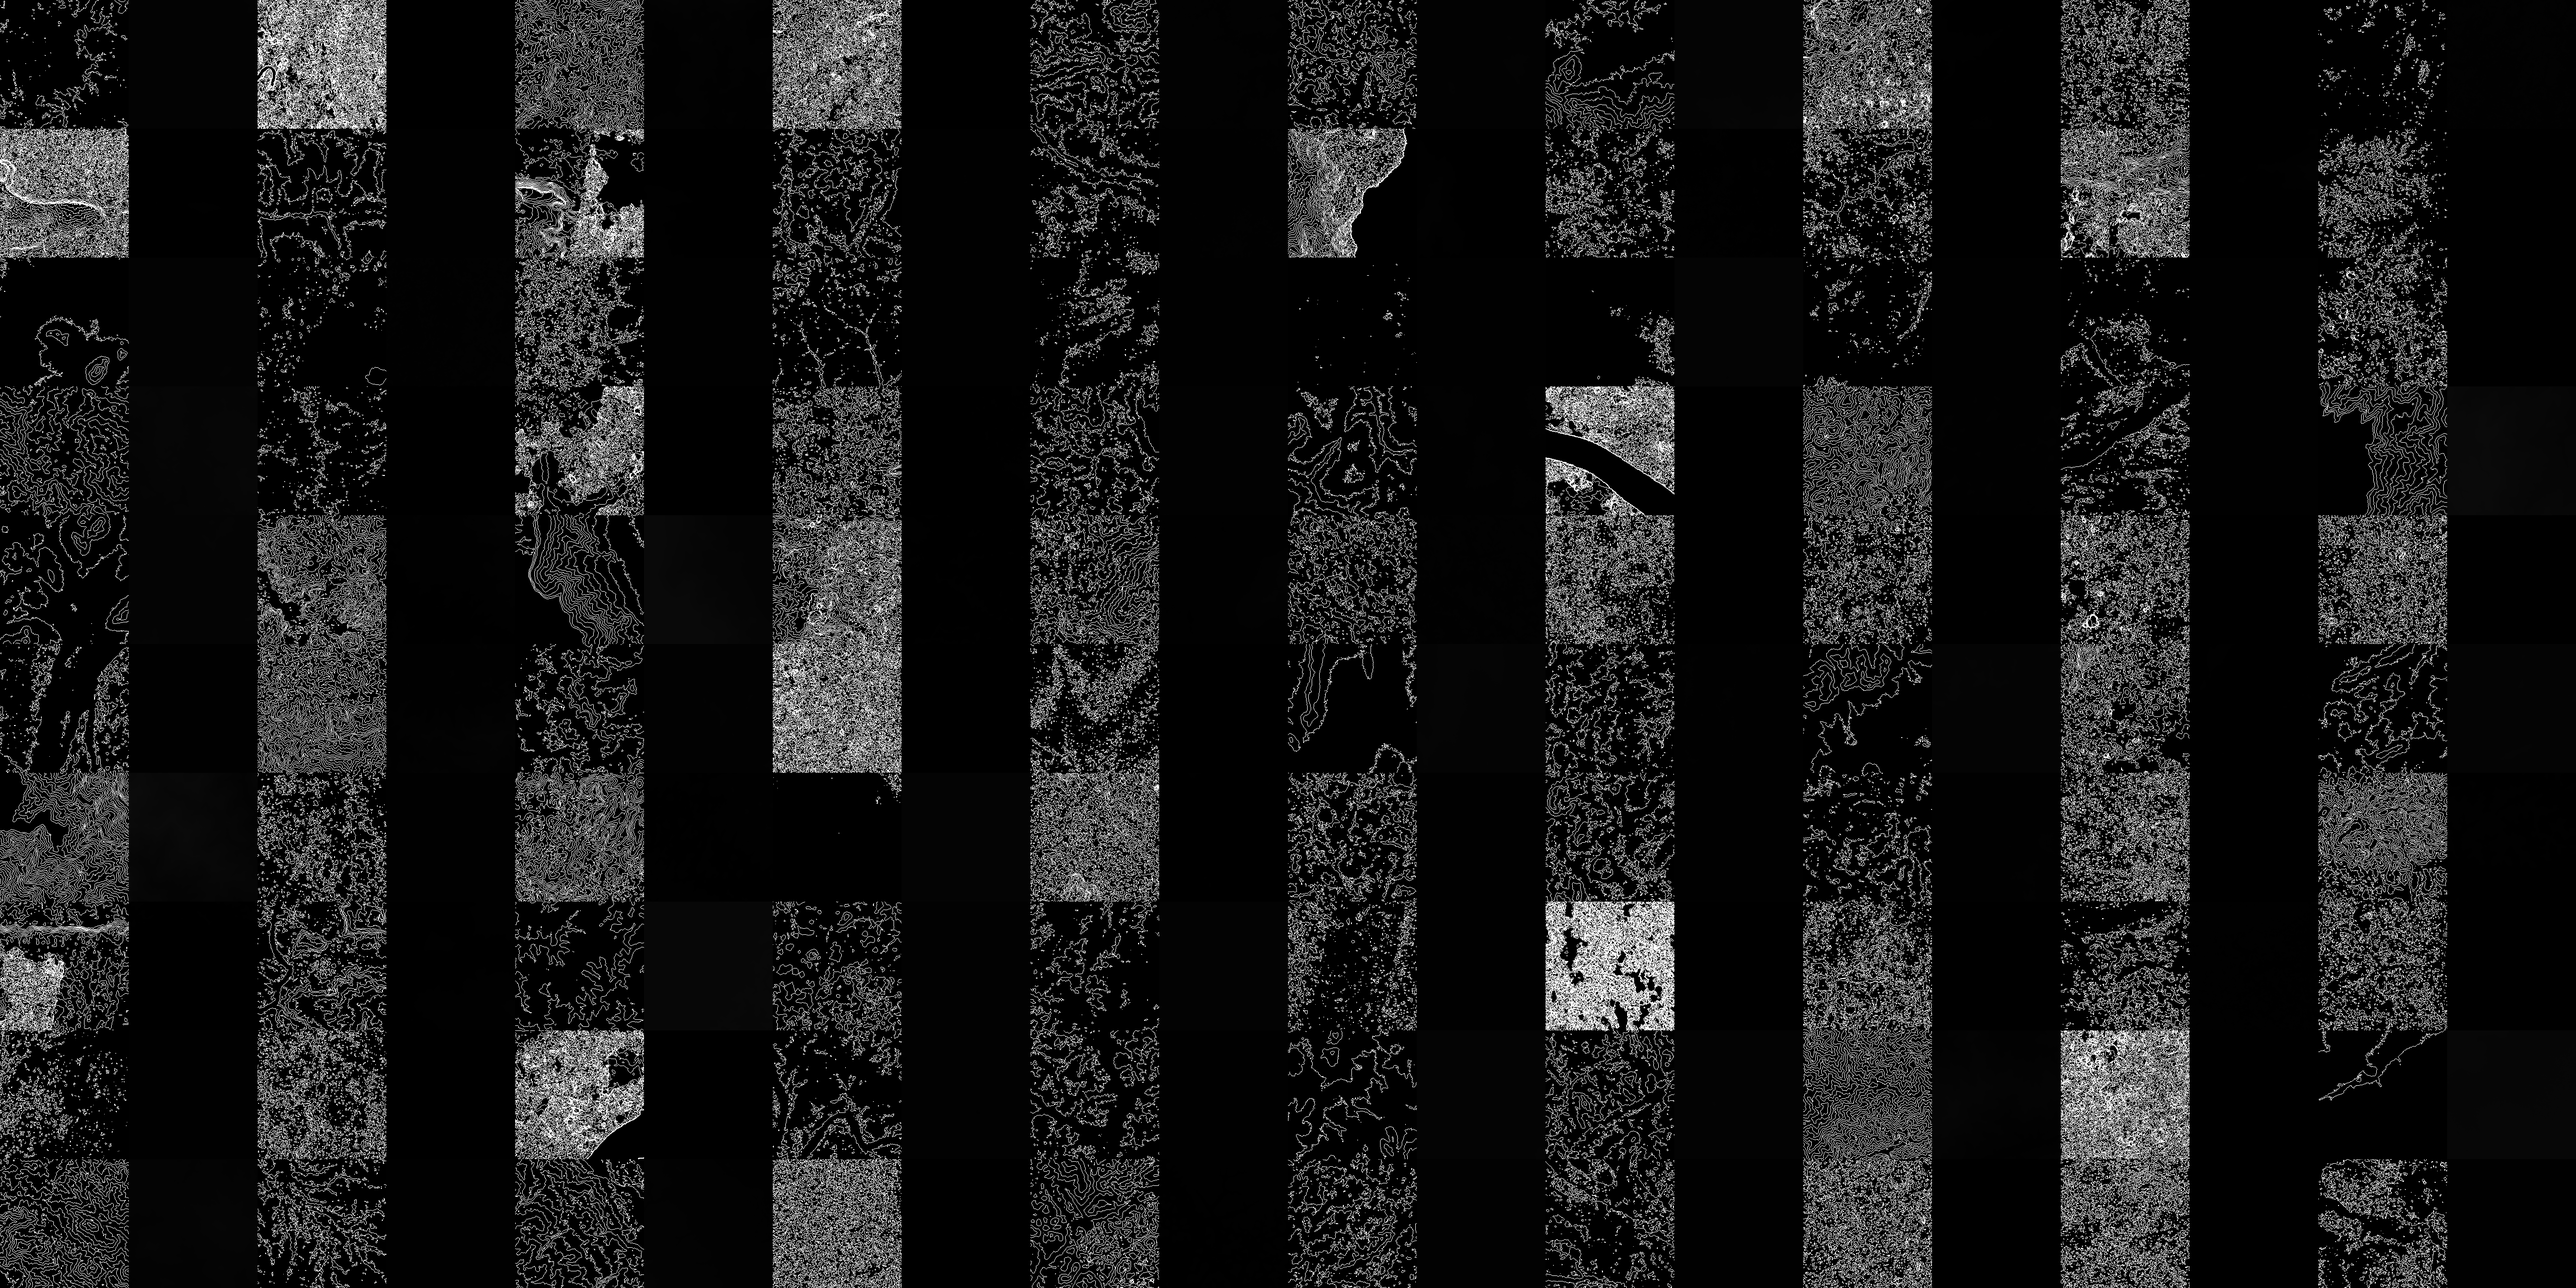
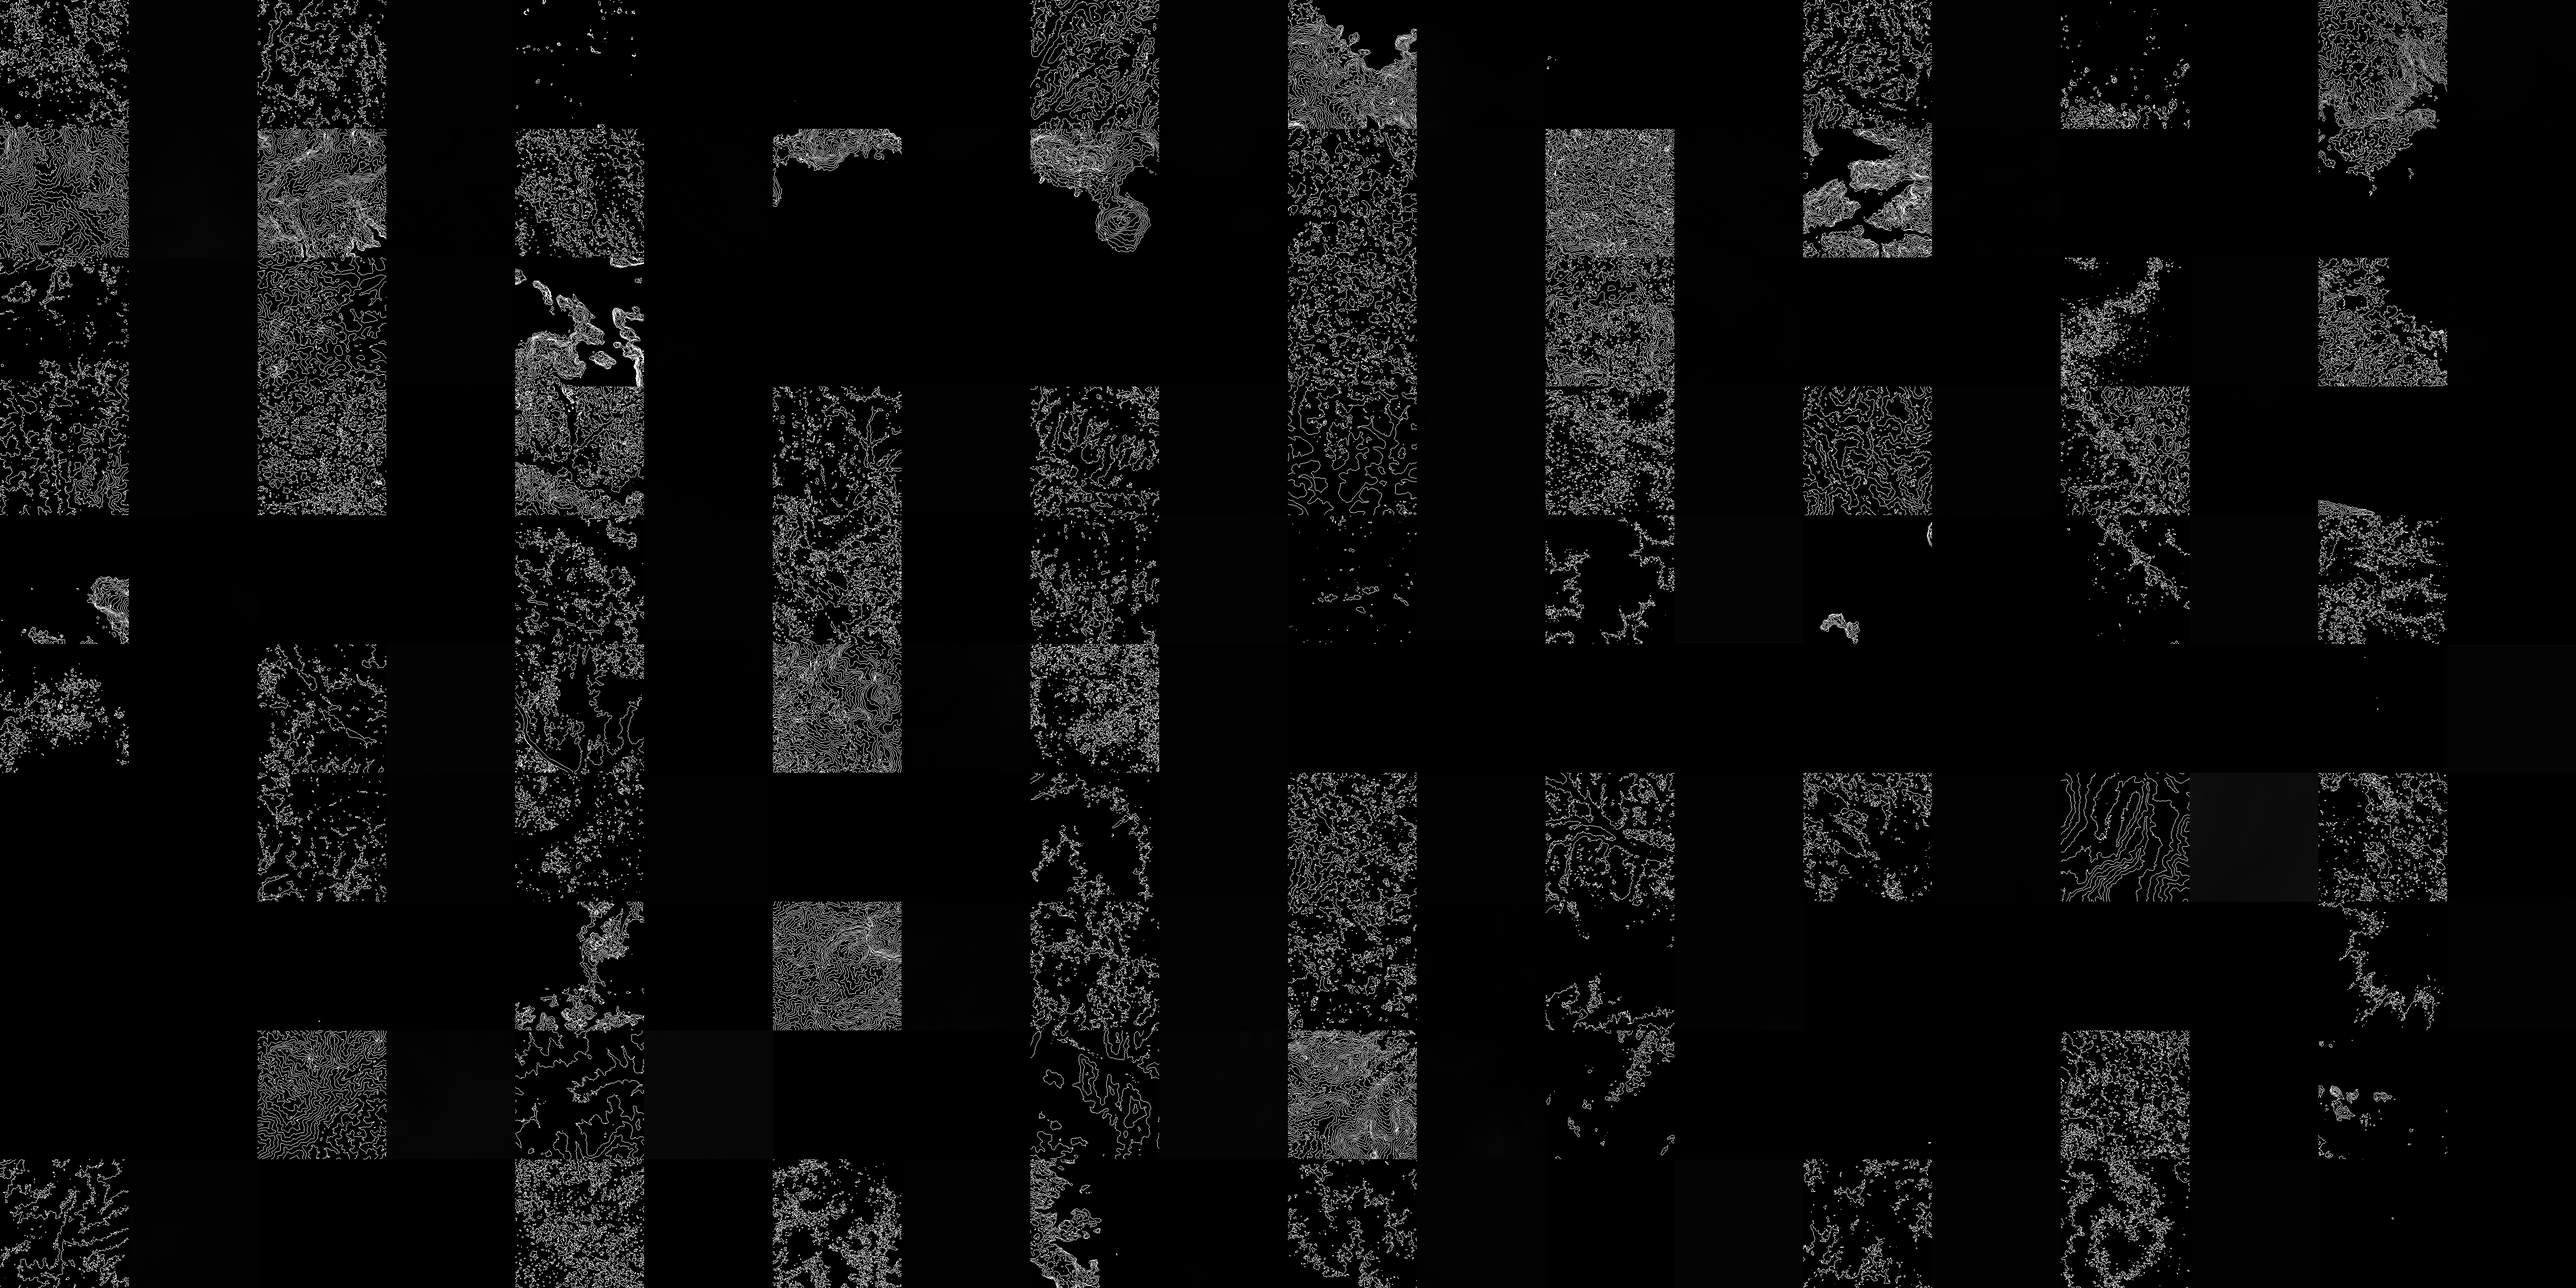
stashing 16 bit model

diff --git a/src/models.py b/src/models.py
@@ -4,6 +4,7 @@ import torch.nn as nn
 import torch.optim as optim
 from .networks import InpaintGenerator, EdgeGenerator, Discriminator
 from .loss import AdversarialLoss, PerceptualLoss, StyleLoss
+import math
 
 
 class BaseModel(nn.Module):
@@ -115,6 +116,8 @@ class EdgeModel(BaseModel):
         gen_gan_loss = self.adversarial_loss(gen_fake, True, False)
         gen_loss += gen_gan_loss
 
+        #print("Gan Loss " + str(gen_gan_loss))
+        
 
         # generator feature matching loss
         gen_fm_loss = 0
@@ -123,9 +126,41 @@ class EdgeModel(BaseModel):
         gen_fm_loss = gen_fm_loss * self.config.FM_LOSS_WEIGHT
         gen_loss += gen_fm_loss
 
+        
+
+
+        #print("FM Loss " + str(gen_fm_loss))
+
+        
+
+
+        #experimental sum loss
+        gen_sum_loss = 0
+        if gen_sum_loss == 0:  
+            for i in range(outputs.shape[0]):
+                for j in range(outputs.shape[1]):
+                    outputsum = outputs[i][j].sum().item()
+                    inputsum = edges[i][j].sum().item()
+                    if inputsum != 0:
+                        outputsum_normed = outputsum / inputsum
+                    else:
+                        outputsum_normed = 1
+                    difference = (1-outputsum_normed)
+                    gen_sum_loss += difference
+
+        gen_sum_loss = gen_sum_loss / self.config.BATCH_SIZE
+        gen_sum_loss = gen_sum_loss * self.config.SUM_LOSS_WEIGHT
+        #print("Sum Loss " + str(gen_sum_loss))
+
+        gen_loss += gen_sum_loss
+
+        
+            
+
 
         # create logs
         logs = [
+            ("l_sum", gen_sum_loss),
             ("l_d1", dis_loss.item()),
             ("l_g1", gen_gan_loss.item()),
             ("l_fm", gen_fm_loss.item()),
@@ -188,6 +223,7 @@ class InpaintingModel(BaseModel):
         )
 
     def process(self, images, edges, masks):
+        
         self.iteration += 1
 
         # zero optimizers
@@ -197,6 +233,7 @@ class InpaintingModel(BaseModel):
 
         # process outputs
         outputs = self(images, edges, masks)
+       
         gen_loss = 0
         dis_loss = 0
 

diff --git a/testscripts/combinedcanny.py b/testscripts/combinedcanny.py
@@ -1,0 +1,64 @@
+import os
+import random
+from skimage.feature import canny
+import numpy as np
+from PIL import Image, ImageOps, ImageEnhance
+from numpy import asarray
+from skimage.color import rgb2gray, gray2rgb
+import cv2
+
+# Define the path to the directory containing the images
+data_dir = '../datasets/hmaps_train_contrast/'
+
+# Define the size of the combined image
+combined_width = 5120
+combined_height = 2560
+
+# Select 100 random images from the directory
+image_files = os.listdir(data_dir)
+selected_files = random.sample(image_files, 100)
+
+# Initialize the combined image
+combined_image = np.zeros((combined_height, combined_width), dtype=np.uint8)
+
+edge_images = []
+# Loop over the selected files
+for i, file_name in enumerate(selected_files):
+    # Load the image and convert it to grayscale
+    image_path = os.path.join(data_dir, file_name)
+    image = cv2.imread(image_path, cv2.IMREAD_ANYDEPTH)
+
+    # Convert the image to 8-bit and then to RGB
+    image_8bit = cv2.normalize(image, None, 0, 255, cv2.NORM_MINMAX, dtype=cv2.CV_8U)
+    
+
+
+    edge_image = np.zeros_like(image,dtype=np.uint8)
+    # Loop over the canny filter iterations
+    for j in range(20):
+        # Apply the canny filter
+        edge = canny(image_8bit, sigma=j)
+        edge_image = edge_image + edge
+
+    edge_images.append(edge_image)
+
+for i, file in enumerate(selected_files):
+
+    # Load the input image
+    input_image = cv2.imread(os.path.join(data_dir, file), cv2.IMREAD_GRAYSCALE)
+
+    # Resize the input image to 256x256
+    input_image = cv2.resize(input_image, (256, 256))
+
+    # Stack the contour image and the resized input image horizontally
+    combined = np.hstack((edge_images[i], input_image))
+
+    # Calculate the row and column indices of the current image
+    row_idx = i // 10
+    col_idx = i % 10
+
+    # Insert the combined image into the empty numpy array
+    combined_image[row_idx*256:(row_idx+1)*256, col_idx*512:(col_idx+1)*512] = combined
+
+# Save the combined image as a PNG file with OpenCV
+cv2.imwrite("combined_image.png", combined_image)

diff --git a/src/dataset.py b/src/dataset.py
@@ -19,7 +19,7 @@ def contouredge(img):
     contour_image = np.zeros_like(img)
 
     contour_image = np.zeros_like(img,dtype=np.uint8)
-    for contour_interval in range(0,40,1):
+    for contour_interval in range(12,60,1):
         contours = measure.find_contours(img, contour_interval**2)
         for contour in contours:
             contour = np.around(contour).astype(np.int32)
@@ -76,7 +76,8 @@ class Dataset(torch.utils.data.Dataset):
 
         # load image
         img  = cv2.imread(self.data[index], cv2.IMREAD_ANYDEPTH)
-     
+
+    
         img = asarray(img)
         img_cont = np.asarray(Image.open(self.contrast_data[index]))
 
@@ -102,7 +103,9 @@ class Dataset(torch.utils.data.Dataset):
             edge = edge[:, ::-1, ...]
             mask = mask[:, ::-1, ...]
 
-        return self.to_tensor(img), self.to_tensor(img_gray), self.to_tensor(edge), self.to_tensor(mask)
+            
+
+        return self.to16b_tensor(img), self.to_tensor(img_gray), self.to_tensor(edge), self.to_tensor(mask)
 
     def load_edge(self, img, index, mask):
         sigma = self.sigma
@@ -207,8 +210,19 @@ class Dataset(torch.utils.data.Dataset):
 
     def to_tensor(self, img):
         img = Image.fromarray(img)
+        
         img_t = F.to_tensor(img).float()
+
+               
         return img_t
+
+    def to16b_tensor(self,img):
+        img = Image.fromarray(img)
+        
+        img_t = F.to_tensor(img).float()
+
+                
+        return img_t / 65536.0
 
     def resize(self, img, height, width, centerCrop=True):
         imgh, imgw = img.shape[0:2]

diff --git a/testscripts/contourtest.py b/testscripts/contourtest.py
@@ -5,14 +5,13 @@ import math
 import os
 import random
 
-# Set the path to the folder containing the input images
-folder_path = "datasets/hmaps_train"
+folder_path = "../datasets/hmaps_train"
 
-# Get a list of all the files in the folder
-files = os.listdir(folder_path)
+# Read the file names from random_files.txt
+with open("random_files.txt", "r") as f:
+    random_files = f.read().splitlines()
 
-# Select 100 random files from the list
-random_files = random.sample(files, 100)
+
 
 # Create an empty list to store the contour images
 contour_images = []
@@ -25,7 +24,7 @@ for file in random_files:
 
     # Calculate the contour interval based on the desired height difference
     contour_image = np.zeros_like(heightmap,dtype=np.uint8)
-    for contour_interval in range(0,50,1):
+    for contour_interval in range(12,60,1):
         contours = measure.find_contours(heightmap, contour_interval**2)
         for contour in contours:
             contour = np.around(contour).astype(np.int32)

diff --git a/src/edge_connect.py b/src/edge_connect.py
@@ -391,12 +391,16 @@ class EdgeConnect():
         if self.config.SAMPLE_SIZE <= 6:
             image_per_row = 1
 
+        print(images)
+        
+        print(outputs)
+
         images = stitch_images(
-            self.postprocess(images),
+            self.postprocess16bit(images),
             self.postprocess(inputs),
             self.postprocess(edges),
-            self.postprocess(outputs),
-            self.postprocess(outputs_merged),
+            self.postprocess16bit(outputs),
+            self.postprocess16bit(outputs_merged),
             img_per_row = image_per_row
         )
 
@@ -417,5 +421,11 @@ class EdgeConnect():
     def postprocess(self, img):
         # [0, 1] => [0, 255]
         img = img * 255.0
+        img = img.permute(0, 2, 3, 1)
+        return img.int()
+
+    def postprocess16bit(self,img):
+
+        img = img * 65536.0
         img = img.permute(0, 2, 3, 1)
         return img.int()

diff --git a/testscripts/randomfiles.py b/testscripts/randomfiles.py
@@ -1,0 +1,19 @@
+import os
+import random
+
+# Set the path to the directory containing the files
+directory = "../datasets/hmaps_train"
+
+# Get a list of all the files in the directory
+files = os.listdir(directory)
+
+# Shuffle the list of files
+random.shuffle(files)
+
+# Select the first 100 files from the shuffled list
+selected_files = files[:100]
+
+# Write the file names to a text file
+with open("random_files.txt", "w") as f:
+    for file in selected_files:
+        f.write(file + "\n")
